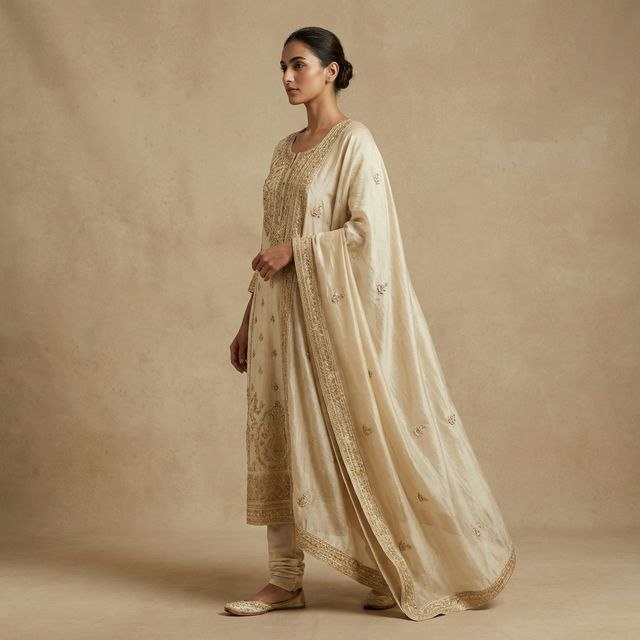
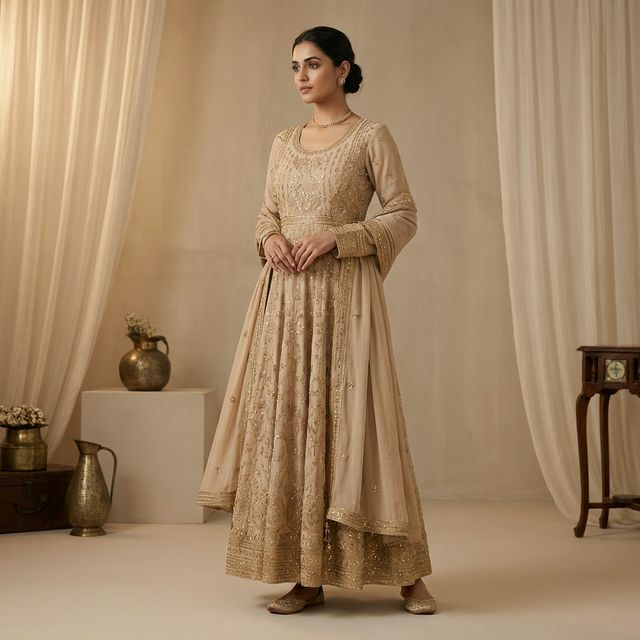
feat(content): add About page, Why Choose Us section, and fix missing assets

diff --git a/src/app/about/page.tsx b/src/app/about/page.tsx
@@ -1,139 +1,58 @@
-import { Metadata } from 'next';
 import { Container } from '@/components/layout';
-import { Sparkles, Heart, Recycle, Users } from 'lucide-react';
-import Link from 'next/link';
-import { Button } from '@/components/ui';
-
-export const metadata: Metadata = {
-  title: 'About Us',
-  description: 'Learn about ASHIKA - Australian Indian wear rental service making premium ethnic fashion accessible.',
-};
-
-const values = [
-  {
-    icon: Sparkles,
-    title: 'Quality First',
-    description: 'Every piece in our collection is carefully selected and maintained to ensure you look stunning on your special day.',
-  },
-  {
-    icon: Heart,
-    title: 'Customer Care',
-    description: 'We treat every customer like family. Our team is dedicated to making your rental experience seamless and joyful.',
-  },
-  {
-    icon: Recycle,
-    title: 'Sustainability',
-    description: 'By renting instead of buying, you reduce fashion waste and contribute to a more sustainable future.',
-  },
-  {
-    icon: Users,
-    title: 'Community',
-    description: 'We celebrate the rich diversity of Indian culture and help Australians experience its beautiful traditions.',
-  },
-];
+import Image from 'next/image';
 
 export default function AboutPage() {
   return (
-    <div className="bg-white">
-      {/* Hero */}
-      <section className="bg-brand-teal py-24 md:py-32">
-        <Container>
-          <div className="max-w-4xl mx-auto text-center">
-            <h1 className="text-4xl md:text-7xl font-black uppercase tracking-[0.2em] text-white mb-8 leading-tight drop-shadow-sm">
-              Wear the Culture. <br />
-              <span className="text-brand-gold">Return the Stress.</span>
-            </h1>
-            <p className="text-[10px] md:text-xs text-brand-cream uppercase tracking-[0.3em] font-bold max-w-2xl mx-auto leading-relaxed">
-              ASHIKA makes premium Indian ethnic wear accessible to everyone in Australia. <br />
-              We believe in celebration without compromise.
-            </p>
-          </div>
-        </Container>
+    <div className="pt-32 pb-24">
+      {/* Hero Banner */}
+      <section className="relative h-[60vh] w-full mb-24">
+        <Image
+          src="/hero_poster_cinematic.png"
+          alt="About Ashika"
+          fill
+          className="object-cover object-center"
+          priority
+        />
+        <div className="absolute inset-0 bg-black/40 flex items-center justify-center">
+          <h1 className="text-5xl md:text-7xl font-black text-white tracking-[0.2em] uppercase text-center">
+            The Ashika Story
+          </h1>
+        </div>
       </section>
 
-      {/* Our Story */}
-      <section className="py-32">
-        <Container>
-          <div className="grid lg:grid-cols-2 gap-24 items-center">
+      <Container>
+        <div className="max-w-4xl mx-auto text-center">
+          <h2 className="text-xs font-black text-brand-black uppercase tracking-[0.3em] mb-8">
+            Wear the Culture. Return the Stress.
+          </h2>
+          <p className="text-sm md:text-base leading-loose text-gray-600 font-medium mb-12">
+            ASHIKA was born from a simple idea: Indian fashion is stunning, but it shouldn't be single-use. 
+            We believe in a world where you can wear the most exquisite Lehengas, Sarees, and Sherwanis 
+            without the guilt of a cluttered closet or the heavy price tag.
+          </p>
+          
+          <div className="grid md:grid-cols-3 gap-12 text-left mt-24">
             <div>
-              <h2 className="text-xs font-black uppercase tracking-[0.3em] text-brand-teal mb-12 border-b-2 border-brand-gold pb-3 inline-block">
-                Our Story
-              </h2>
-              <div className="space-y-8 text-sm text-gray-600 leading-relaxed font-medium tracking-wide">
-                <p>
-                  ASHIKA was born from a simple observation: Indian ethnic wear is stunningly beautiful,
-                  but prohibitively expensive to buy for one-time occasions. We saw friends and family
-                  spending thousands on outfits they&apos;d wear once, or settling for lower quality options
-                  that didn&apos;t do justice to these important moments.
-                </p>
-                <p>
-                  We founded ASHIKA to bridge this gap. Our name comes from &quot;Ashik&quot; meaning
-                  &quot;lover&quot; in Sanskrit – we&apos;re lovers of culture, of celebration, and of making
-                  beautiful moments possible for everyone.
-                </p>
-                <p>
-                  Based in Sydney, we serve customers across Australia with our carefully curated
-                  collection of sarees, lehengas, sherwanis, and more. Each piece is professionally
-                  cleaned and maintained to ensure you receive it in perfect condition.
-                </p>
-              </div>
+              <h3 className="text-xl font-black text-brand-black mb-4">01. CURATED LUXURY</h3>
+              <p className="text-xs leading-relaxed text-gray-500 font-bold uppercase tracking-wide">
+                We partner with top designers and authenticate every piece to ensure you're wearing only the best.
+              </p>
             </div>
-            <div className="bg-[#F8FBFA] p-12 lg:p-24 border border-brand-teal/5 shadow-sm">
-              <blockquote className="text-2xl md:text-4xl font-black text-brand-teal uppercase tracking-tight leading-tight italic">
-                &quot;Every person deserves to feel magnificent on their special day,
-                regardless of budget.&quot;
-              </blockquote>
-              <div className="w-16 h-1 bg-brand-gold mt-10"></div>
-              <p className="mt-6 text-[10px] font-black uppercase tracking-[0.2em] text-gray-900">ASHIKA Founders</p>
+            <div>
+              <h3 className="text-xl font-black text-brand-black mb-4">02. SUSTAINABLE FASHION</h3>
+              <p className="text-xs leading-relaxed text-gray-500 font-bold uppercase tracking-wide">
+                By renting, you reduce textile waste and contribute to a more circular fashion economy.
+              </p>
+            </div>
+            <div>
+              <h3 className="text-xl font-black text-brand-black mb-4">03. HYGIENE FIRST</h3>
+              <p className="text-xs leading-relaxed text-gray-500 font-bold uppercase tracking-wide">
+                Every item is dry-cleaned and sanitized to hospital-grade standards before it reaches you.
+              </p>
             </div>
           </div>
-        </Container>
-      </section>
-
-      {/* Values */}
-      <section className="py-32 bg-[#F8FBFA] border-y border-brand-teal/5">
-        <Container>
-          <div className="text-center mb-20">
-            <h2 className="text-xs font-black uppercase tracking-[0.3em] text-brand-teal mb-4">
-              Our Values
-            </h2>
-            <div className="w-16 h-1 bg-brand-gold mx-auto"></div>
-          </div>
-
-          <div className="grid md:grid-cols-2 lg:grid-cols-4 gap-12">
-            {values.map((value) => (
-              <div
-                key={value.title}
-                className="text-center group"
-              >
-                <div className="w-20 h-20 bg-white shadow-sm rounded-full flex items-center justify-center mx-auto mb-8 group-hover:scale-110 transition-transform duration-300 border border-brand-teal/5">
-                  <value.icon className="w-8 h-8 text-brand-teal stroke-[1.5]" />
-                </div>
-                <h3 className="text-xs font-black uppercase tracking-[0.2em] text-gray-900 mb-4">
-                  {value.title}
-                </h3>
-                <p className="text-xs text-gray-500 font-medium tracking-wide leading-relaxed px-4">{value.description}</p>
-              </div>
-            ))}
-          </div>
-        </Container>
-      </section>
-
-      {/* CTA */}
-      <section className="py-32 bg-white">
-        <Container>
-          <div className="text-center">
-            <h2 className="text-3xl md:text-4xl font-black uppercase tracking-[0.2em] text-brand-teal mb-10">
-              Join the Borrowhood
-            </h2>
-            <Link href="/shop">
-              <Button size="lg" className="min-w-[280px] h-14 text-sm font-bold tracking-[0.2em]">
-                START BROWSING
-              </Button>
-            </Link>
-          </div>
-        </Container>
-      </section>
+        </div>
+      </Container>
     </div>
   );
 }

diff --git a/src/components/home/features.tsx b/src/components/home/features.tsx
@@ -1,0 +1,56 @@
+import { Container } from '@/components/layout';
+import Image from 'next/image';
+
+const features = [
+  {
+    title: 'Premium Quality',
+    description: 'Hand-picked, luxury ethnic wear from top designers.',
+    icon: '/icon-fit.png',
+  },
+  {
+    title: 'Perfect Fit Guarantee',
+    description: 'Custom fitting options to ensure you look your best.',
+    icon: '/icon-fit.png', 
+  },
+  {
+    title: 'Hassle-Free Returns',
+    description: 'Easy returns with pre-paid shipping labels included.',
+    icon: '/icon-return.png',
+  },
+  {
+    title: 'Express Delivery',
+    description: 'Fast shipping across Australia for your last-minute events.',
+    icon: '/icon-delivery.png',
+  },
+];
+
+export function Features() {
+  return (
+    <section className="py-24 bg-brand-offwhite border-t border-gray-100">
+      <Container>
+        <div className="grid grid-cols-1 md:grid-cols-2 lg:grid-cols-4 gap-12">
+          {features.map((feature) => (
+            <div key={feature.title} className="text-center group">
+              <div className="w-16 h-16 mx-auto mb-6 bg-white rounded-full flex items-center justify-center shadow-sm group-hover:shadow-md transition-all duration-300">
+                <div className="relative w-8 h-8 opacity-60 group-hover:opacity-100 transition-opacity">
+                   <Image 
+                     src={feature.icon} 
+                     alt={feature.title}
+                     fill
+                     className="object-contain"
+                   />
+                </div>
+              </div>
+              <h3 className="text-sm font-black uppercase tracking-widest text-brand-black mb-3">
+                {feature.title}
+              </h3>
+              <p className="text-[11px] font-bold text-gray-400 leading-relaxed uppercase tracking-wide">
+                {feature.description}
+              </p>
+            </div>
+          ))}
+        </div>
+      </Container>
+    </section>
+  );
+}

diff --git a/src/components/home/testimonials.tsx b/src/components/home/testimonials.tsx
@@ -89,20 +89,7 @@ export function Testimonials() {
         </div>
 
         {/* Social proof stats */}
-        <div className="mt-24 grid grid-cols-1 md:grid-cols-3 gap-12 text-center">
-          <div>
-            <p className="text-3xl font-black text-black mb-2 uppercase tracking-tighter">500+</p>
-            <p className="text-[10px] font-bold text-gray-400 uppercase tracking-widest">Happy Renters</p>
-          </div>
-          <div>
-            <p className="text-3xl font-black text-black mb-2 uppercase tracking-tighter">4.9/5</p>
-            <p className="text-[10px] font-bold text-gray-400 uppercase tracking-widest">Average Rating</p>
-          </div>
-          <div>
-            <p className="text-3xl font-black text-black mb-2 uppercase tracking-tighter">100%</p>
-            <p className="text-[10px] font-bold text-gray-400 uppercase tracking-widest">Satisfaction Guarantee</p>
-          </div>
-        </div>
+
       </Container>
     </section>
   );

diff --git a/src/app/page.tsx b/src/app/page.tsx
@@ -5,6 +5,7 @@ import {
   FeaturedProducts,
   Testimonials,
   Newsletter,
+  Features,
 } from '@/components/home';
 
 export default function Home() {
@@ -15,6 +16,7 @@ export default function Home() {
       <CategoriesGrid />
       <FeaturedProducts />
       <Testimonials />
+      <Features />
       <Newsletter />
     </>
   );

diff --git a/src/components/home/index.ts b/src/components/home/index.ts
@@ -4,3 +4,4 @@ export { CategoriesGrid } from './categories-grid';
 export { FeaturedProducts } from './featured-products';
 export { Testimonials } from './testimonials';
 export { Newsletter } from './newsletter';
+export * from './features';
